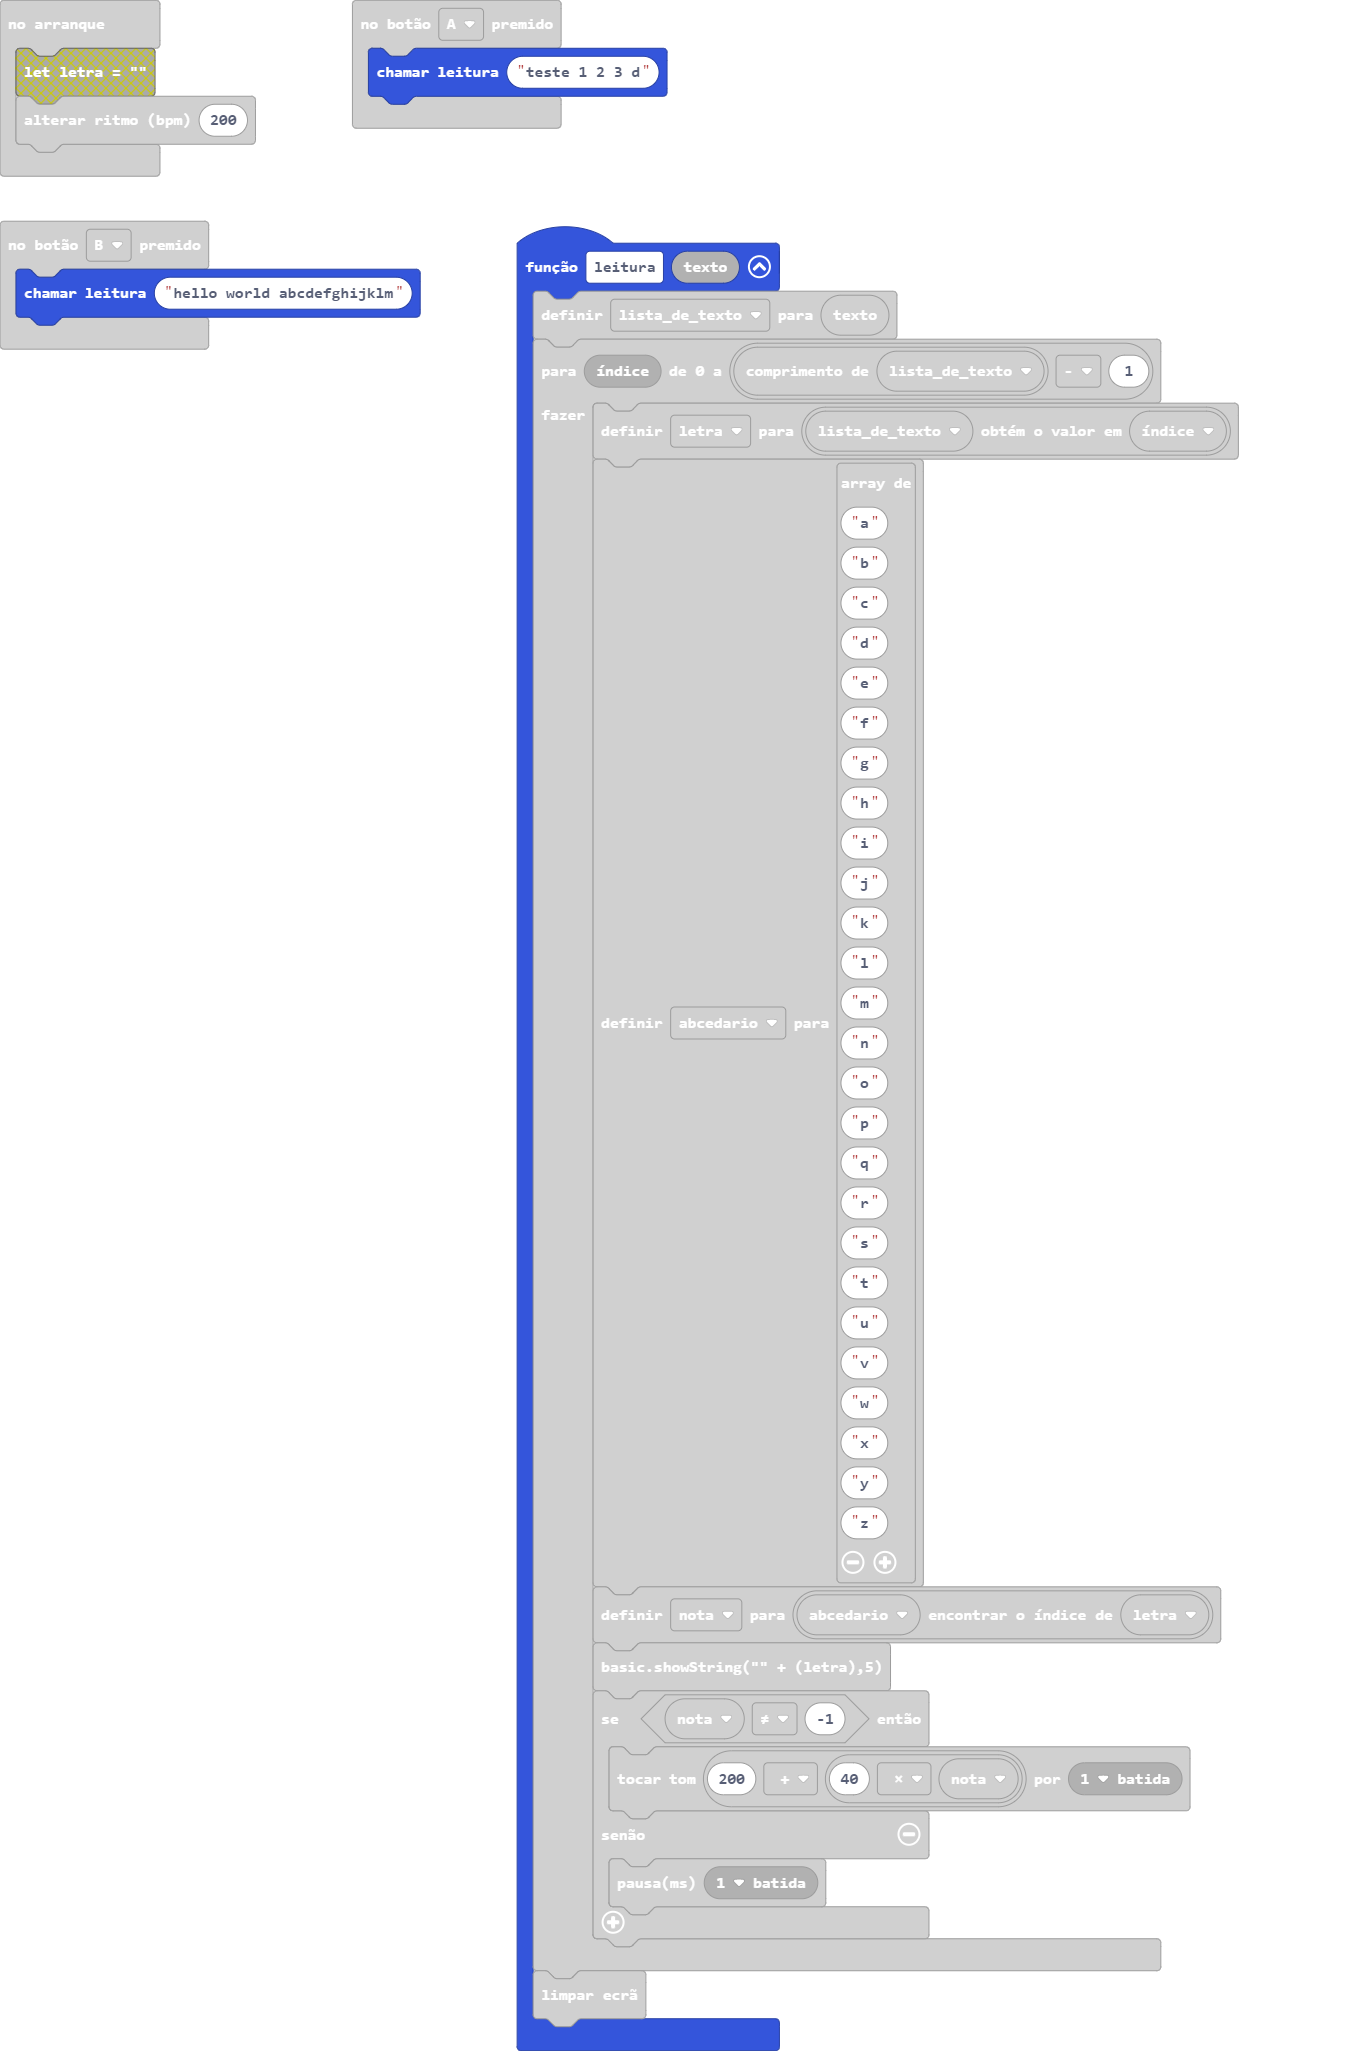
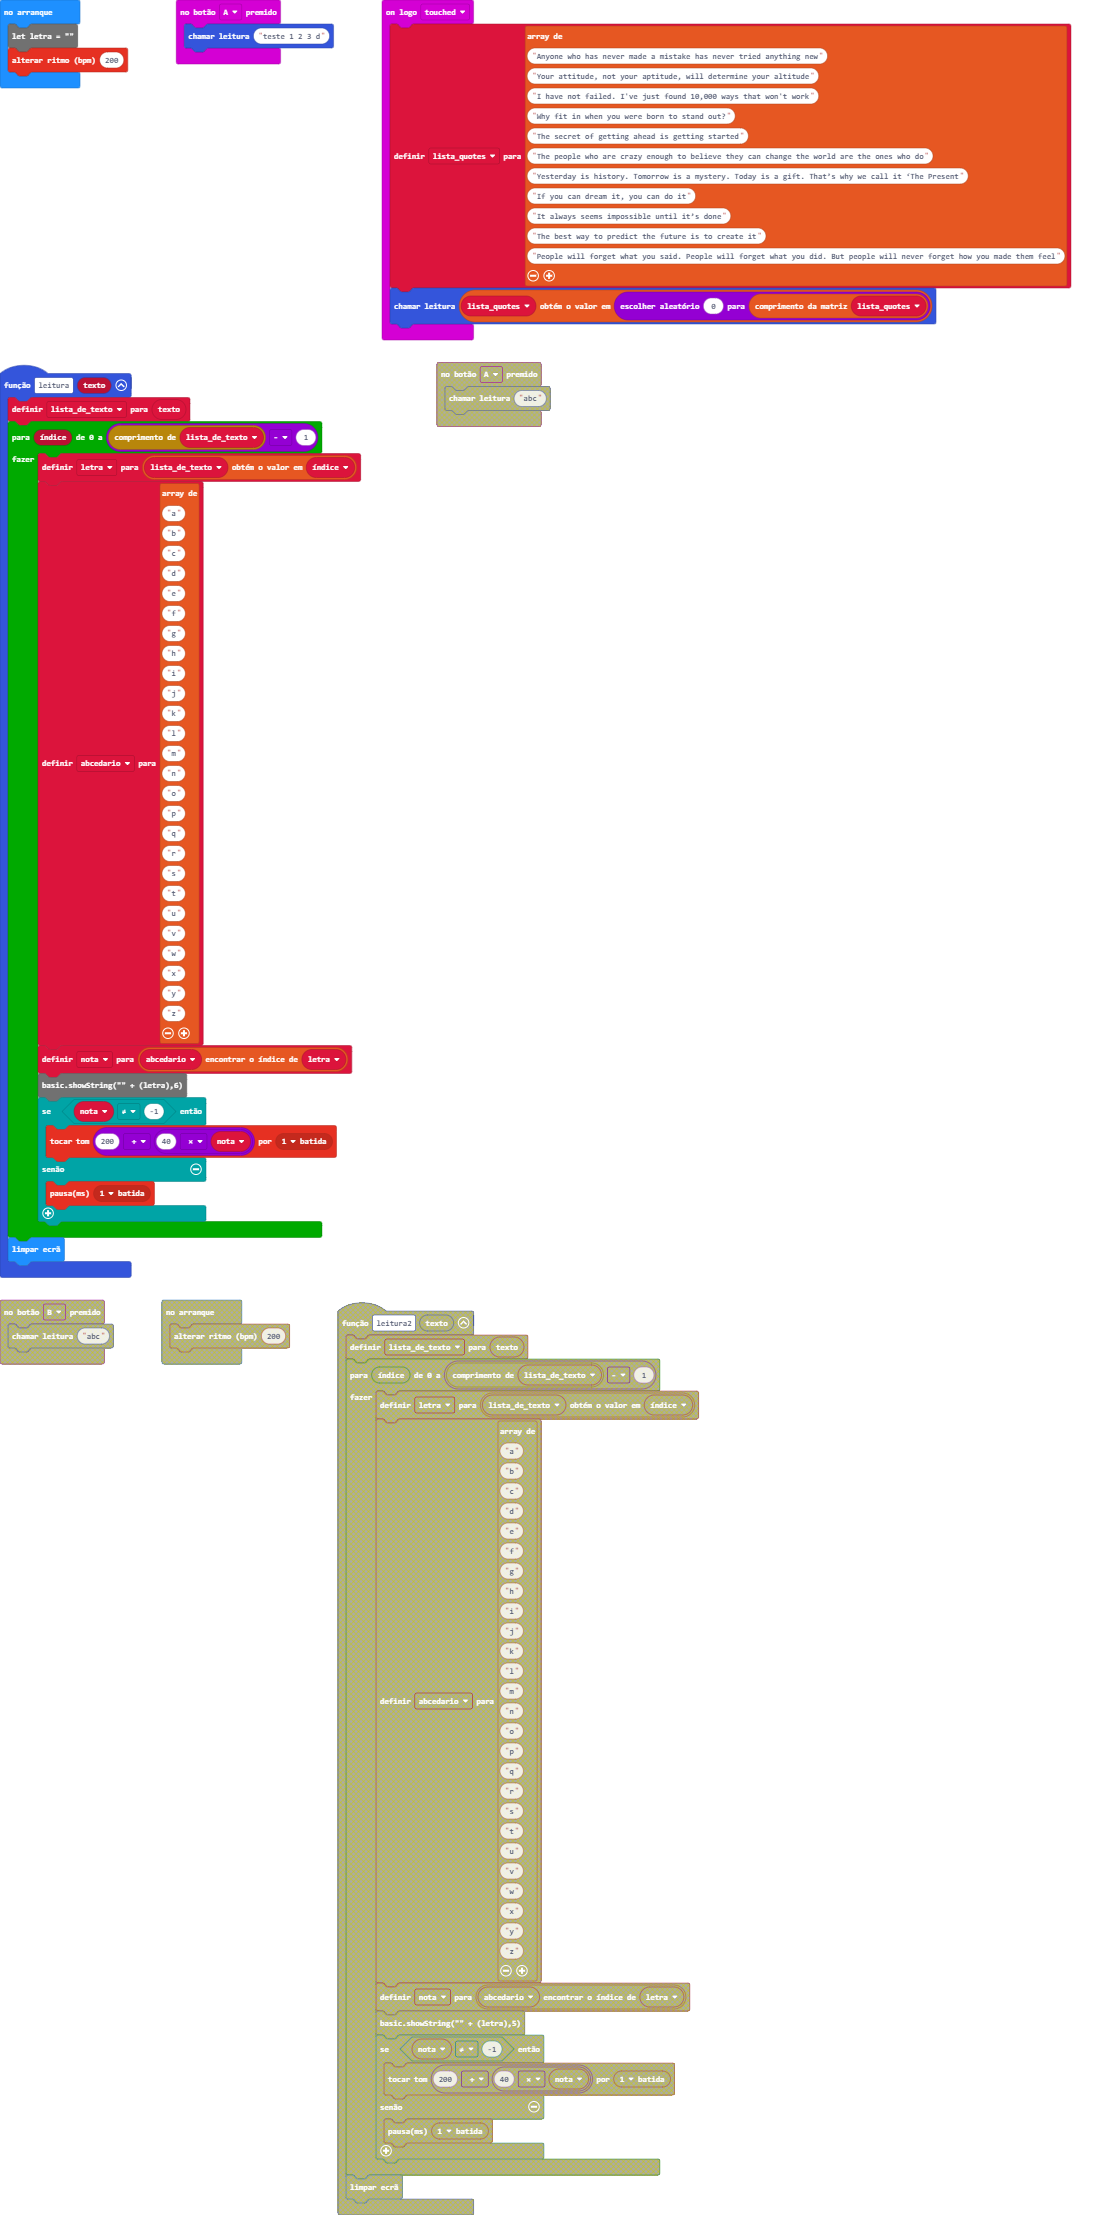
mais quotes

diff --git a/main.ts b/main.ts
@@ -4,8 +4,21 @@ enum RadioMessage {
 input.onButtonPressed(Button.A, function () {
     leitura("teste 1 2 3 d")
 })
-input.onButtonPressed(Button.B, function () {
-    leitura("hello world abcdefghijklm")
+input.onLogoEvent(TouchButtonEvent.Touched, function () {
+    lista_quotes = [
+    "Anyone who has never made a mistake has never tried anything new",
+    "Your attitude, not your aptitude, will determine your altitude",
+    "I have not failed. I've just found 10,000 ways that won't work",
+    "Why fit in when you were born to stand out?",
+    "The secret of getting ahead is getting started",
+    "The people who are crazy enough to believe they can change the world are the ones who do",
+    "Yesterday is history. Tomorrow is a mystery. Today is a gift. That’s why we call it ‘The Present",
+    "If you can dream it, you can do it",
+    "It always seems impossible until it’s done",
+    "The best way to predict the future is to create it",
+    "People will forget what you said. People will forget what you did. But people will never forget how you made them feel"
+    ]
+    leitura(lista_quotes[randint(0, lista_quotes.length)])
 })
 function leitura (texto: string) {
     lista_de_texto = texto
@@ -40,7 +53,7 @@ function leitura (texto: string) {
         "z"
         ]
         nota = abcedario.indexOf(letra)
-        basic.showString("" + (letra),5)
+        basic.showString("" + (letra),6)
 if (nota != -1) {
             music.playTone(200 + 40 * nota, music.beat(BeatFraction.Whole))
         } else {
@@ -51,8 +64,9 @@ if (nota != -1) {
 }
 let nota = 0
 let abcedario: string[] = []
-let letra = ""
 let lista_de_texto = ""
+let lista_quotes: string[] = []
+let letra = ""
 music.changeTempoBy(200)
 basic.forever(function () {
 	
